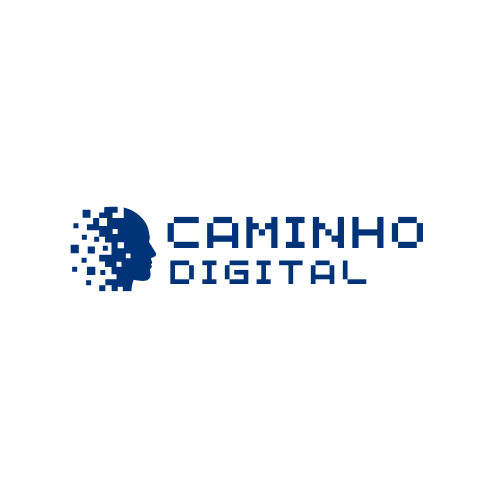
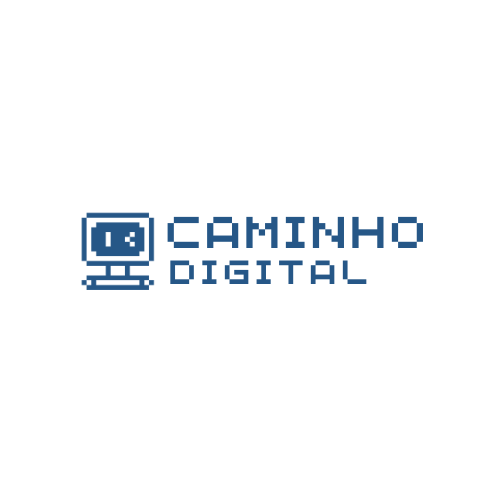
atualização

Changed region(s): [[0.12, 0.39, 0.87, 0.6]]

diff --git a/Caminho DIgital/index.css b/Caminho DIgital/index.css
@@ -10,7 +10,7 @@ body {
 
 header {
     min-height: 150px;
-    background-color: #265787;
+    background-color: white;
     display: flex;
     justify-content: center; /* Centraliza o conteúdo do header */
     align-items: center; /* Alinha verticalmente */
@@ -27,7 +27,7 @@ nav > img {
 }
 
 nav > a {
-    color: white;
+    color: #265787;
     text-decoration: none;
     margin-right: 100px; /* Espaçamento entre os links */
 }
@@ -106,68 +106,69 @@ border-radius: 50px;
      }
 }
 footer{
-    background-color: #265787;
-    height: 700PX;
-    
+    background-color: blue;
+    height: 800px;
 }
 footer > nav{
-    background-color: blue;
     display: flex;
-    align-items:center ;
-    justify-content: space-between;
-    padding: 0 20px;
+    align-items: center;
+    justify-content:center;
 }
-footer > nav > div > a {
-    color: white;
+footer > nav > div > a{
+    background-color: #265787;
+    display: flex;
+    align-items: center;
+    justify-content: center;
+    flex-direction: column;
+    height: 400px;
+    width: 400px;
     text-decoration: none;
-    margin: 0 20px;
-    display: inline-block; /* Permite definir largura e altura */
-    width: 300px; /* Largura do quadrado */
-    height: 300px; /* Altura do quadrado */
-    background-color: rgba(255, 255, 255, 0.2); /* Cor de fundo dos quadrados */
-    text-align: center; /* Centraliza o texto dentro do quadrado */
-    line-height: 100px; /* Alinha verticalmente o texto */
-    border-radius: 10px; /* Bordas arredondadas, opcional */
-    transition: background-color 0.3s; /* Transição suave para a cor de fundo */
-    margin: 0 20px;
+    margin: 20px 70px;
+    color: white;
+    border-radius: 10px;
+    
 }
 
-/* Efeito ao passar o mouse */
-footer > nav > div > a:hover {
-    background-color: rgba(255, 255, 255, 0.5); /* Muda a cor ao passar o mouse */
+footer > nav > div > a >img{
+    width: 200px;
+    margin-bottom: 20px;
+    border-radius: 10px;
 }
 
- footer > nav > div > img{
-    width: 100px;
- }   
- .livro {
-    display: flex;
-    flex-direction: column; /* Alinha os itens em coluna */
-    align-items: center; /* Centraliza horizontalmente */
-    justify-content: center; /* Centraliza verticalmente */
-    width: 300px; /* Largura do quadrado */
-    height: 300px; /* Altura do quadrado */
-    background-color: rgba(255, 255, 255, 0.2); /* Cor de fundo */
-    border-radius: 10px; /* Bordas arredondadas */
-    padding: 10px; /* Espaçamento interno */
-    text-decoration: none; /* Remove o sublinhado do link */
-    color: white; /* Cor do texto */
+.livro :hover{
+    background-color: rgba(255, 255, 255, 0.267);
+    transition: 0.4s;
 }
+@media(max-width:1000px) {
+    footer > nav > div > a > img {
+        width: 100px;
+        margin-bottom: 20px;
+        border-radius: 10px;
+    }
 
-.livro img {
-    width: 100px; /* Ajusta o tamanho da imagem */
-    margin-bottom: 10px; /* Espaço entre a imagem e o link */
+    footer > nav > div > a {
+        height: 200px;
+        width: 200px;
+        margin: 20px 10px;
+        
+       
+        
+    }
 }
-.livro:hover {
-    background-color: rgba(255, 255, 255, 0.5); /* Efeito ao passar o mouse */
-}
-.livro a {
-    display: flex; /* Permite que a imagem e o texto sejam alinhados */
-    flex-direction: column; /* Alinha itens em coluna */
-    align-items: center; /* Centraliza horizontalmente */
-    justify-content: center; /* Centraliza verticalmente */
-    width: 100%; /* Garante que o link ocupe toda a largura da div */
-    height: 100%; /* Garante que o link ocupe toda a altura da div */
-    text-decoration: none; /* Remove o sublinhado do link */
-    color: white; /* Cor do texto */
+@media (max-width: 680px) {
+    footer > nav {
+        flex-direction: column; /* Muda a direção para coluna */
+        align-items: center; /* Centraliza os itens horizontalmente */
+    }
+
+    footer > nav > div > a {
+        height: 230px; /* Ajusta a altura dos links */
+        width: 230px; /* Usa 90% da largura do contêiner */
+        margin: 10px 0; /* Espaçamento vertical entre os links */
+    }
+
+    footer > nav > div > a > img {
+        width: 100px; /* Ajusta o tamanho das imagens */
+        margin-bottom: 10px; /* Espaçamento abaixo da imagem */
+    }
 }

diff --git a/Caminho DIgital/index.html b/Caminho DIgital/index.html
@@ -10,7 +10,7 @@
     <header>
           
             <nav>
-                <img src="imagens/4.png" alt="">
+                <img src="imagens/3.png" alt="">
                 <a href="">Solução</a>
                 <a href="">Recursos</a>
                 <a href="">Acesso</a>
